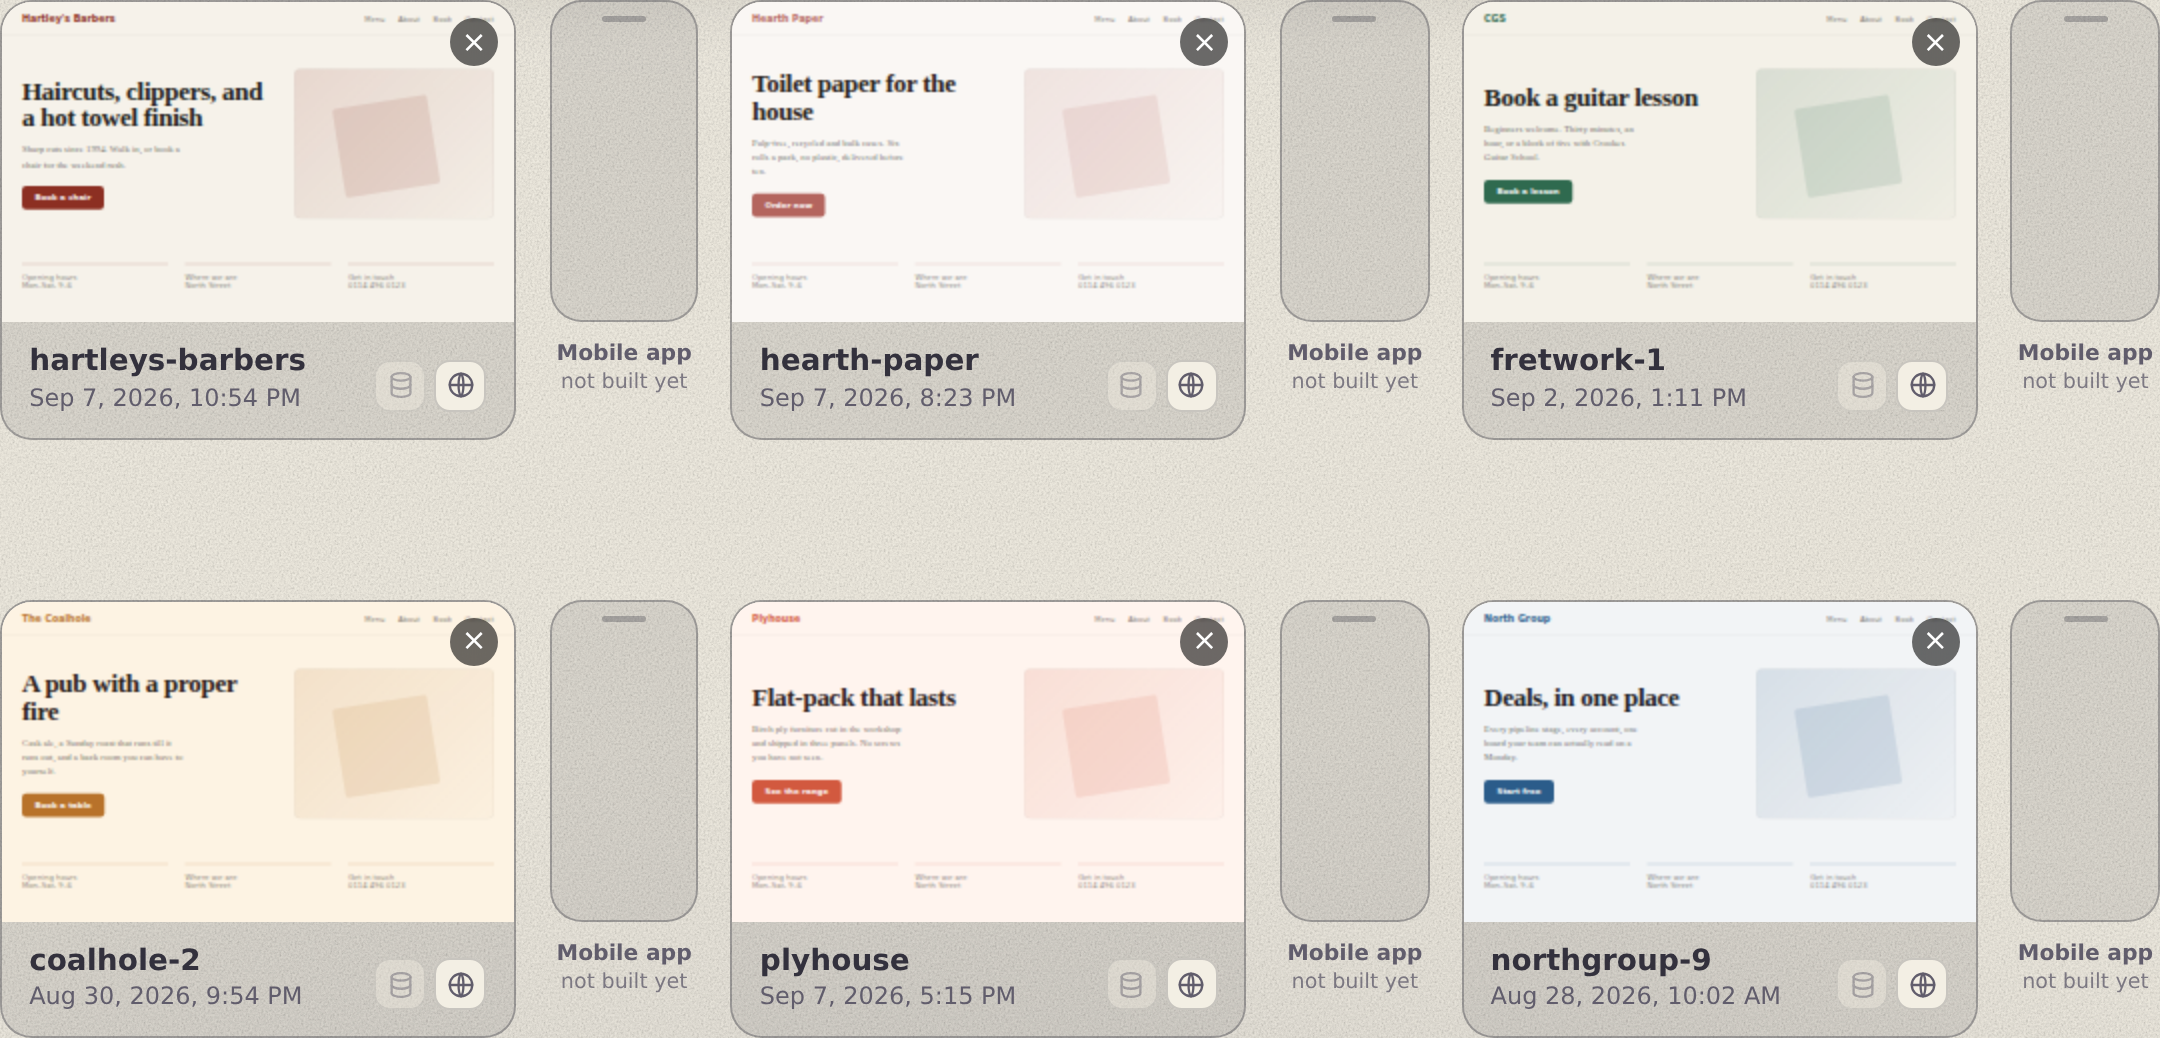
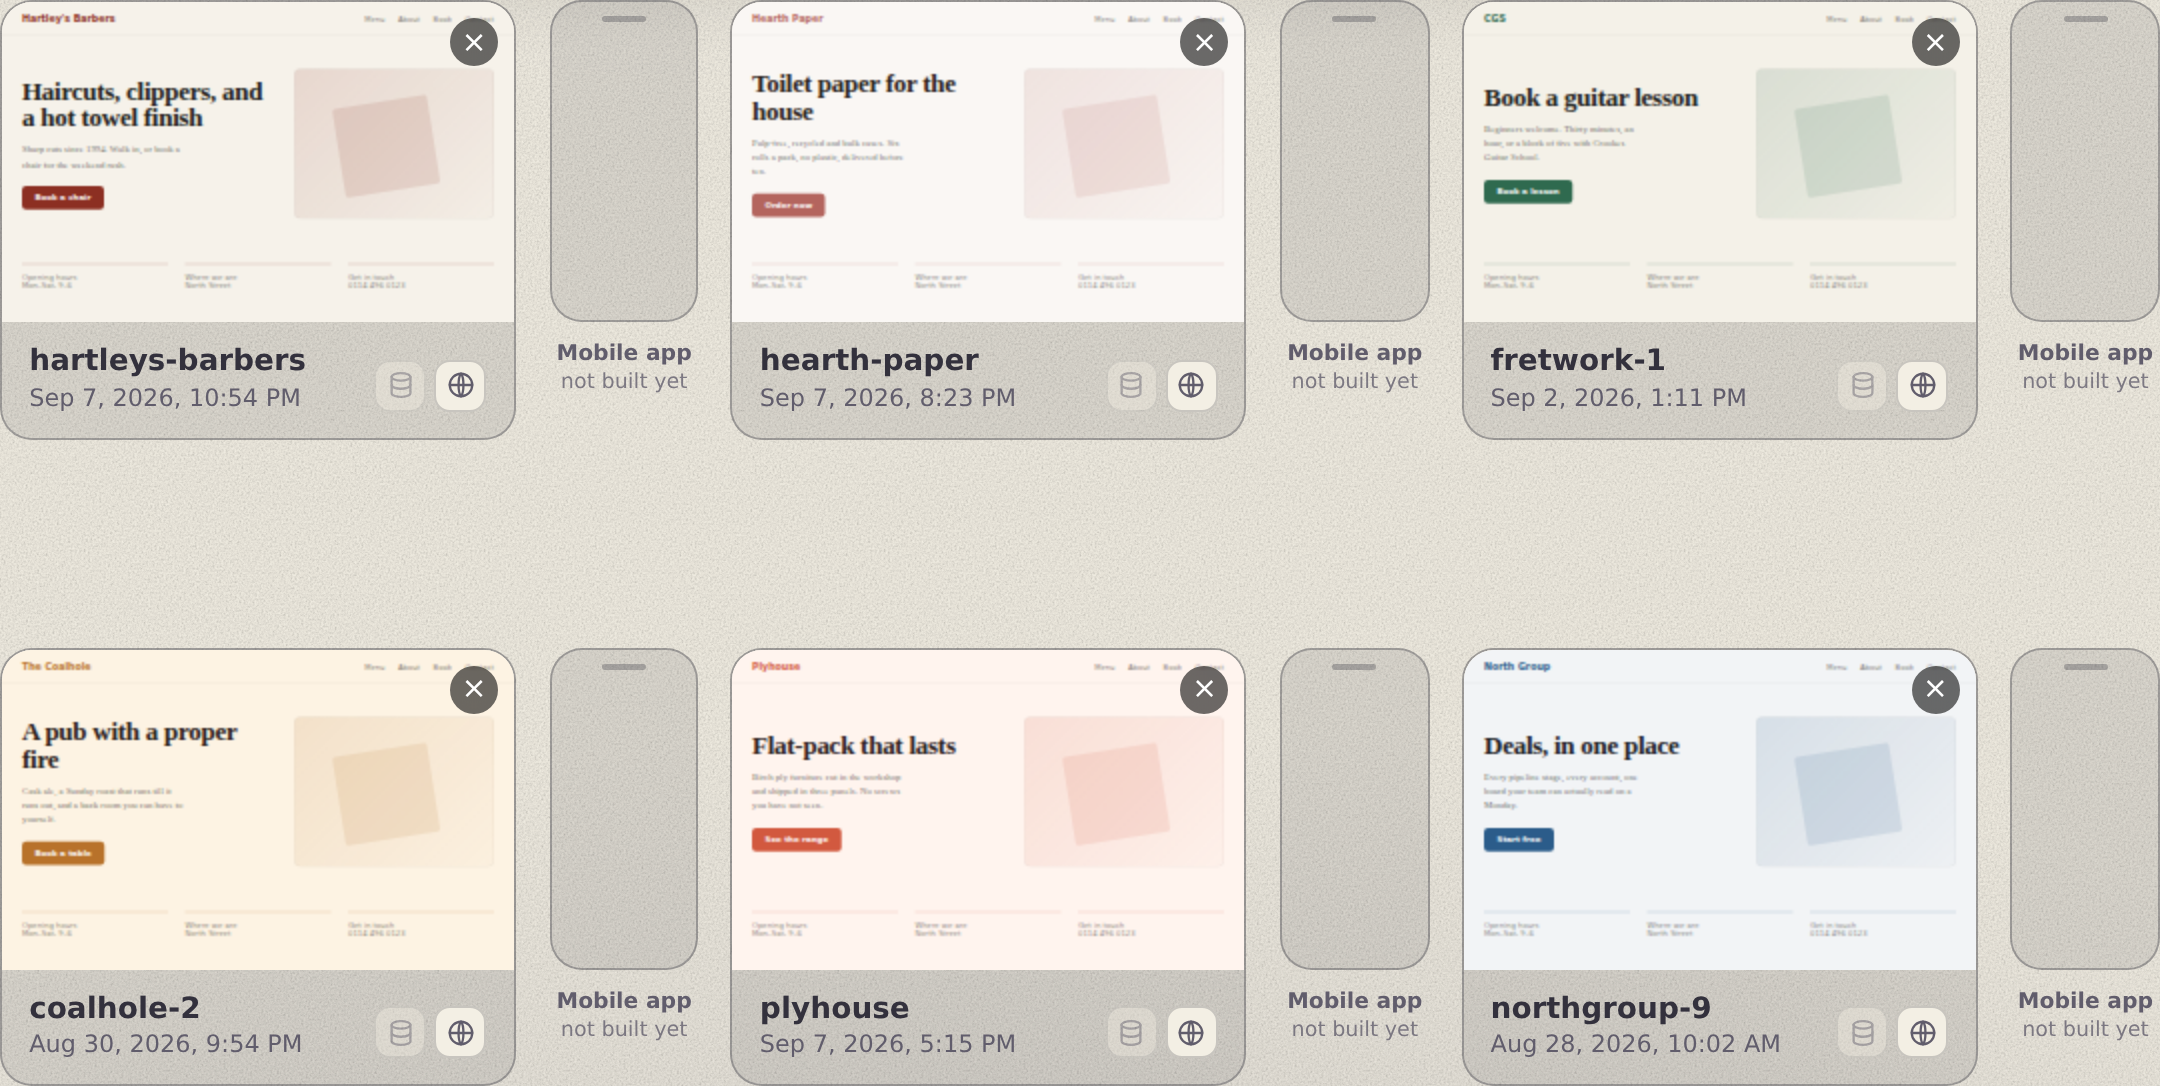
More space between the rows again: 80px -> 104px
Owner: "bit more". row-gap 5rem -> 6.5rem, measured at 104px between one row's
cards and the next's.

Card still 258 at every window width, phone still within a pixel of its
thumbnail, no page overflow - row gap changes no width, which is why this axis
can be tuned freely and the horizontal one cannot.

The guard needed no edit for this or either earlier bump, by design: it requires
the row gap to EXCEED the column gap rather than pinning a number, so tuning the
amount is never a test change. Sweep spec re-anchored on the new value and
re-run whole: 30 mutants, 30 killed, none survived, none unapplied, two
comment-only controls survived.

Full suite 5,703. Renders refreshed.

Claude-Session: https://claude.ai/code/session_01Ro69RoRa3qPtpAd3uJk215

diff --git a/public/styles.css b/public/styles.css
@@ -1496,7 +1496,7 @@ body.in-sites .top-tab, body.in-sites .top-back { display: none !important; }
    `row-gap:` CONTAINS `gap:`, so a guard reading the column gap out of this rule
    would match whichever came first and silently take the wrong number into the
    card-width arithmetic below. Naming both removes the question. */
-.st-grid { display: grid; grid-template-columns: repeat(3, 1fr); column-gap: 1rem; row-gap: 5rem; }
+.st-grid { display: grid; grid-template-columns: repeat(3, 1fr); column-gap: 1rem; row-gap: 6.5rem; }
 @media (max-width: 1180px) { .st-grid { grid-template-columns: repeat(2, 1fr); } }
 @media (max-width: 760px) { .st-grid { grid-template-columns: 1fr; } }
 /* THE PHONE IS THE SITE SQUARE'S HEIGHT BY ARITHMETIC, NOT BY A NUMBER TYPED IN

diff --git a/CLAUDE.md b/CLAUDE.md
@@ -1470,8 +1470,11 @@ correction is a property a guard now holds.
   between every3"* → *"i mean like floor one to floor 2"*).** At one `gap` for
   both, the space between a phone and the next site was **16px** and the space
   INSIDE a pair was **16.8** — so six columns read as six columns, and a row ran
-  straight into the one under it. `column-gap: 1rem; row-gap: 5rem` now — 56px on the first cut,
-  then **80px** on a second *"more space"*, both measured. **The first reading of that ask was the wrong axis**
+  straight into the one under it. `column-gap: 1rem; row-gap: 6.5rem` now — 56px on the first cut,
+  then 80 and **104px** on two further *"more space"* asks, each measured. The
+  guard needed no edit across any of them, by design: it requires the row gap to
+  EXCEED the column gap rather than pinning a number, so tuning the amount is
+  never a test change. **The first reading of that ask was the wrong axis**
   — I built the horizontal case, found it fights *"leave the square the size it
   is"* (the page is capped at 1080, so wider gaps between pairs shrink the card
   to ~246) and was about to render the tradeoff when the owner said which axis.

diff --git a/docs/owner-notes.md b/docs/owner-notes.md
@@ -208,9 +208,9 @@ column, the phone's shape, and **zero** occurrences of the old phone icon.
 Nothing paid ran.
 
 **Then you asked for more space between the rows** — "floor one to floor 2".
-Done, then more when you asked again: **80 pixels** between one row and the
-next, where before it was 16 — the same as the gap between columns, which is why
-a row ran straight into the one below it.
+Done, then more twice when you asked again: **104 pixels** between one row and
+the next, where before it was 16 — the same as the gap between columns, which is
+why a row ran straight into the one below it.
 
 I read that wrong the first time and started on the horizontal gap. Worth
 knowing why that one is not free: the page is capped at 1080 pixels wide, so
